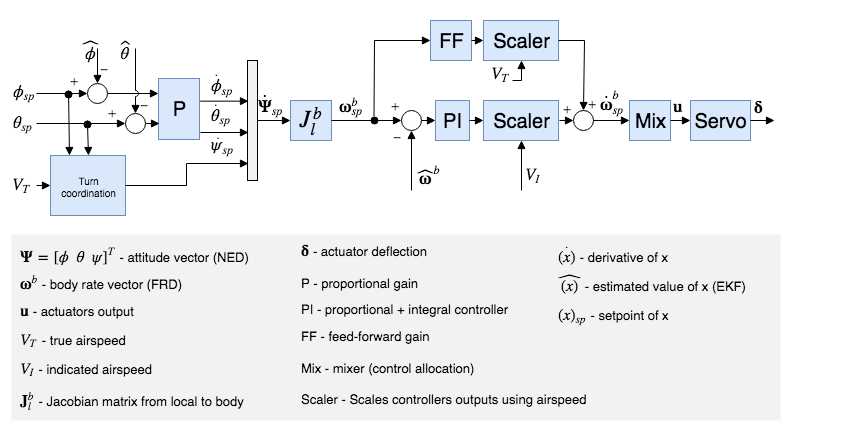
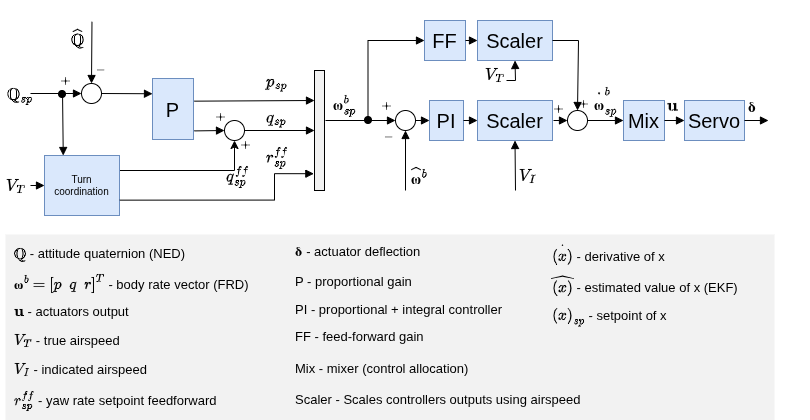
docs(fw_att_control): update docs

diff --git a/docs/en/flight_stack/controller_diagrams.md b/docs/en/flight_stack/controller_diagrams.md
@@ -162,6 +162,40 @@ Elevator control on the other hand is energy conservative, and is thus used for 
 $$\dot{B} = \gamma - \frac{\dot{V_T}}{g}$$
 
 ## Fixed-Wing Attitude Controller
+### Setpoint modificaiton
+Most fixed-wing aircraft cannot generate a sustained yaw rate using the rudder alone. As a result, the yaw component of the quaternion attitude error should be removed before computing the control action.
+
+This is achieved by premultiplying the setpoint quaternion with a rotation about the global down axis. The additional rotation cancels the yaw component of the attitude error while preserving the roll and pitch components.
+
+The yaw offset is
+
+$$
+\psi =-2\frac{\hat{q}_0 q_3 - \hat{q}_1 q_2 + \hat{q}_2 q_1 -\hat{q}_3 q_0}
+{\hat{q}_0 q_0 - \hat{q}_1 q_1 - \hat{q}_2 q_2 + \hat{q}_3 q_3}
+$$
+
+The quaternion representing the yaw offset is
+
+$$
+ℚ_{\text{yaw}} =
+\operatorname{normalize}
+\left(
+\begin{bmatrix}
+1 \
+0 \
+0 \
+\frac{\psi}{2}
+\end{bmatrix}
+\right)
+$$
+
+The corrected setpoint quaternion is then obtained by applying the rotation
+
+$$
+ℚ_{\text{sp, corrected}} = ℚ_{\text{yaw}} \otimes ℚ_{sp}
+$$
+
+### Quaternion based attitude controller
 
 ![FW Attitude Controller Diagram](../../assets/diagrams/px4_fw_attitude_controller_diagram.png)
 
@@ -185,12 +219,16 @@ In order to keep a constant rate, this damping can be compensated using feedforw
 
 ### Turn coordination
 
-The yaw controller generates its yaw rate setpoint using the coordinated turn constraint in order to minimize lateral acceleration caused by sideslip. Instead of relying on Euler angles, the bank angle is computed geometrically from the body 𝑍.
-Z-axis relative to a heading-aligned horizontal frame. This makes the turn coordination computation independent of absolute yaw and robust to large attitudes.
+ The  yaw rate setpoint is generated using the turn coordination constraint in order to minimize lateral acceleration, generated when the aircraft is slipping.
 
 $$\dot{\Psi}_{sp} = \frac{g}{V_T} \tan{\phi_{sp}} \cdot 0.6$$
 
-The yaw rate controller also helps to counteract [adverse yaw effects](https://youtu.be/sNV_SDDxuWk) and to damp the [Dutch roll mode](https://en.wikipedia.org/wiki/Dutch_roll) by providing extra directional damping.
+This also helps to counteract [adverse yaw effects](https://youtu.be/sNV_SDDxuWk) and to damp the [Dutch roll mode](https://en.wikipedia.org/wiki/Dutch_roll) by providing extra directional damping.
+
+To compensate for the non-zero pitch rate that naturally occurs during coordinated turns, a geometry-based feedforward term is added to the pitch-rate command.
+This feedforward term accounts for the aircraft's current attitude and airspeed so that the controller does not need to generate this motion purely through feedback.
+
+$$\dot{\theta}_{sp}^{ff} = \frac{2g(q_0 q_1 + q_2 q_3)^2}{V(1 - 2q_1^2 - 2q_2^2)}$$
 
 ## VTOL Flight Controller
 